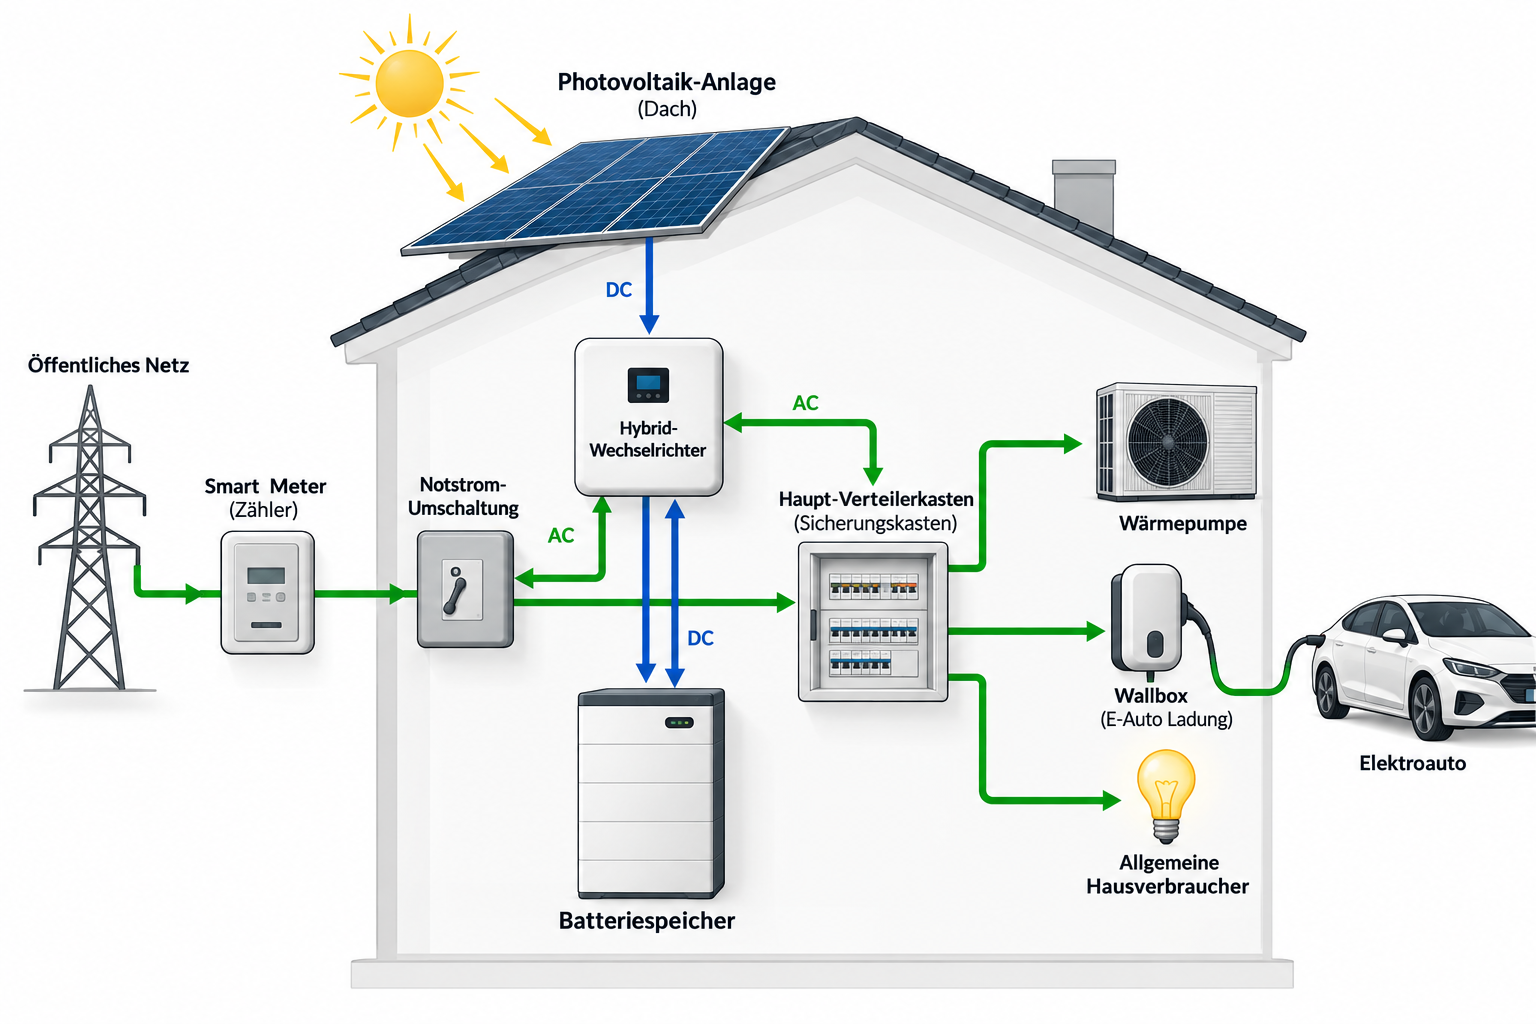
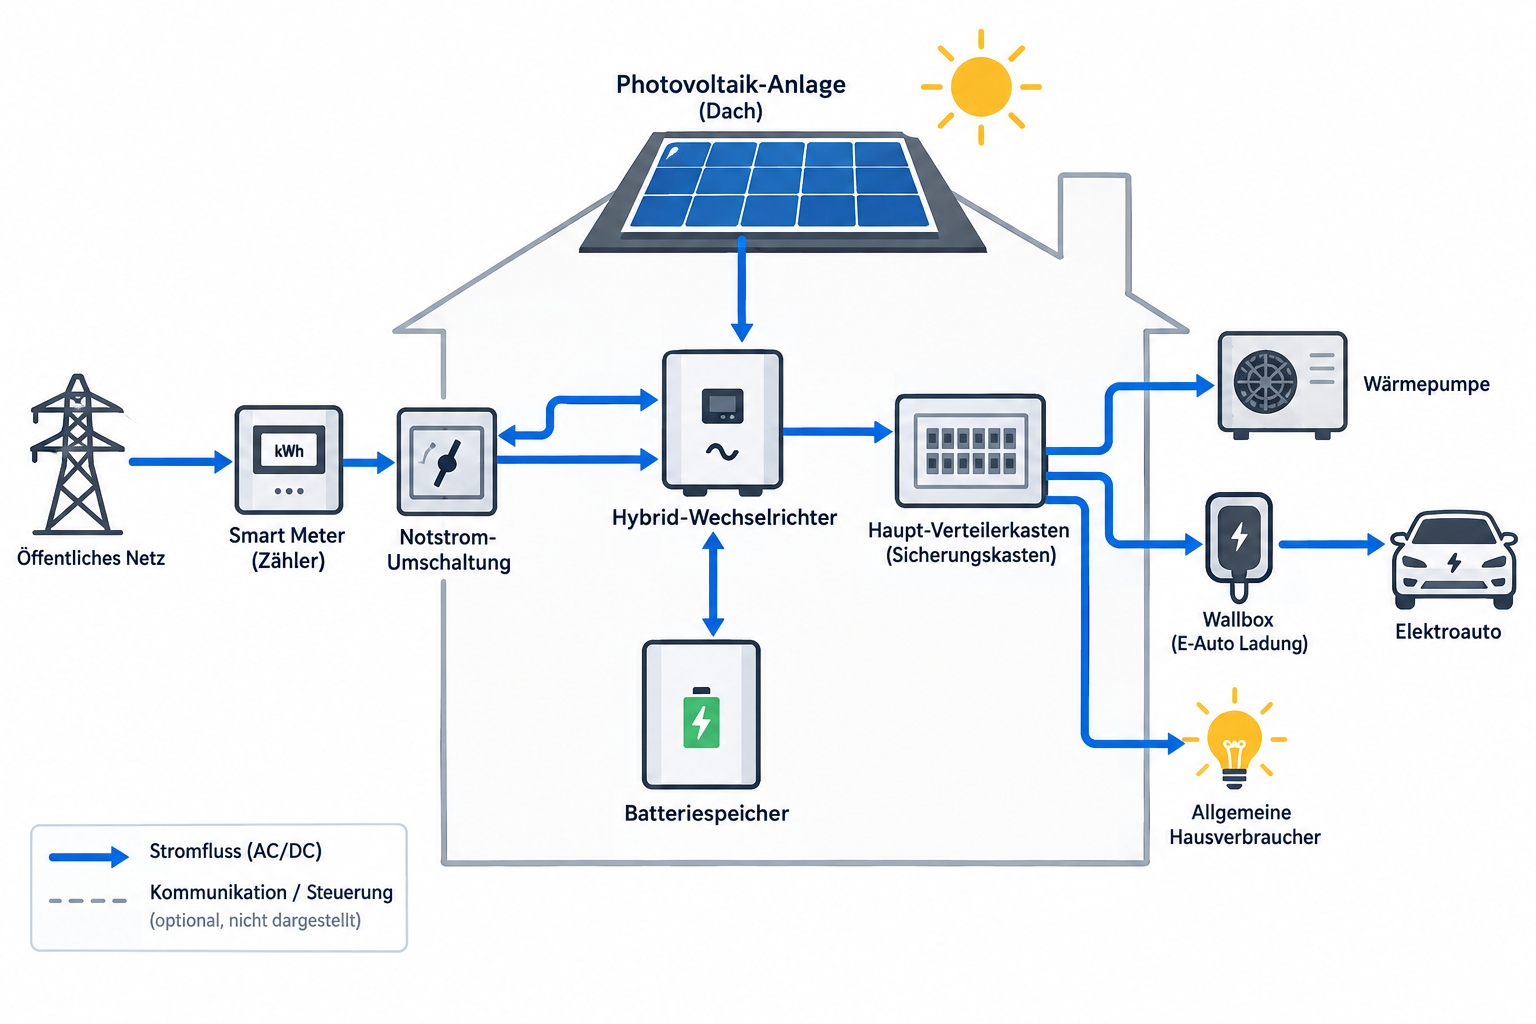
feat(offer): new house diagram art with pale B&W for missing products
Swap in the customer system graphic. Always keep Netz, utility Smart
Meter, Verteiler and Allgemeine Hausverbraucher in color; mute absent
sellable parts (Notstrom, WP, Wallbox, EV, …) to pale black-and-white.

Changed region(s): [[0.0, 0.0312, 1.0, 0.9688]]

diff --git a/src/offer/house-diagram.js b/src/offer/house-diagram.js
@@ -2,12 +2,14 @@
 
 /**
  * House system diagram for „Auf einen Blick“.
- * Base art: house-system-diagram.png (Useini-style reference).
+ * Base art: house-system-diagram.png (customer-supplied reference).
  *
- * Always full color (Noortec does not sell these / always present):
+ * Always full color (never B&W) — Noortec does not sell / always present:
  *   Öffentliches Netz, utility Smart Meter (Zähler), Haupt-Verteilerkasten,
  *   Allgemeine Hausverbraucher, house shell.
- * Offer products: color if in this quote, else grey.
+ *
+ * Sellable products: full color if in this offer; otherwise pale black-and-white
+ * so it is obvious they are not part of the quote.
  */
 
 const fs = require('fs');
@@ -17,28 +19,27 @@ const { PNG } = require('pngjs');
 const BASE = path.join(__dirname, 'assets', 'products', 'house-system-diagram.png');
 
 /**
- * Normalized regions [x0,y0,x1,y1] on the 1536×1024 reference.
- * Include nearby labels / local arrows so greying reads clearly.
+ * Normalized regions [x0,y0,x1,y1] on the 1536×1024 reference graphic.
+ * Boxes include nearby labels / local feed arrows.
  */
 const REGIONS = {
-  // Always-on context — never greyed (utility Smart Meter ≠ SigenStor product)
-  netz: [0.00, 0.28, 0.13, 0.72],
-  smartMeter: [0.11, 0.36, 0.29, 0.70],
-  verteiler: [0.52, 0.36, 0.68, 0.64],
-  hausverbraucher: [0.78, 0.72, 0.99, 0.99],
+  // Always-on context — never muted
+  netz: [0.01, 0.20, 0.14, 0.56],
+  smartMeter: [0.13, 0.26, 0.27, 0.56], // utility/grid Zähler (≠ SigenStor product)
+  verteiler: [0.52, 0.28, 0.69, 0.60],
+  hausverbraucher: [0.60, 0.66, 0.88, 0.96],
 
   // Offer-dependent sellable products
-  notstrom: [0.26, 0.32, 0.43, 0.64],
-  inverter: [0.37, 0.20, 0.56, 0.50],
-  battery: [0.35, 0.48, 0.56, 0.80],
-  pv: [0.40, 0.00, 0.74, 0.30],
-  // Include AC feed arrows from Verteiler so unused loads grey with their products
-  waermepumpe: [0.62, 0.14, 0.94, 0.50],
-  wallbox: [0.62, 0.44, 0.88, 0.76],
-  ev: [0.78, 0.38, 0.99, 0.82],
+  notstrom: [0.24, 0.18, 0.40, 0.54],
+  pv: [0.30, 0.00, 0.64, 0.30],
+  inverter: [0.35, 0.26, 0.54, 0.54],
+  battery: [0.34, 0.48, 0.56, 0.80],
+  waermepumpe: [0.68, 0.08, 0.94, 0.44],
+  wallbox: [0.66, 0.40, 0.86, 0.70],
+  ev: [0.80, 0.36, 0.99, 0.74],
 };
 
-/** Sellable product keys that may be greyed when not in the offer. */
+/** Sellable product keys muted when not in the offer. */
 const PRODUCT_KEYS = [
   'pv',
   'inverter',
@@ -74,7 +75,6 @@ function includedOptionKeys(offer) {
   if (Array.isArray(cfg.inkludierteOptionen)) {
     cfg.inkludierteOptionen.forEach((k) => keys.add(String(k).toLowerCase()));
   }
-  // optionen with mode=fix may only appear in preis.inkludiert after computeOffer
   if (Array.isArray(cfg.optionen)) {
     for (const o of cfg.optionen) {
       if (o && o.mode === 'fix' && o.key) keys.add(String(o.key).toLowerCase());
@@ -89,7 +89,7 @@ function namesMatch(names, re) {
 
 /**
  * Resolve which diagram parts are in color for this offer.
- * @returns {{ flags: Record<string, boolean>, greyKeys: string[] }}
+ * @returns {{ flags: Record<string, boolean>, greyKeys: string[], alwaysColor: string[] }}
  */
 function resolveHouseDiagramSelection(offer) {
   const cfg = (offer && offer.config) || {};
@@ -110,7 +110,6 @@ function resolveHouseDiagramSelection(offer) {
     || !!(cfg.inverter)
     || namesMatch(names, /wechselrichter|hybrid|inverter|gen24|sigenstor ec|sun2000/);
 
-  // Notstrom / Gateway / Umschaltbox — sellable product (not the utility meter)
   const hasNotstrom = inkl.has('notstrom')
     || namesMatch(names, /notstrom|umschalt|gateway|netztren|backup.?box/);
 
@@ -122,16 +121,13 @@ function resolveHouseDiagramSelection(offer) {
     || !!(cfg.klima && (cfg.klima.enabled || cfg.klima.packageId
       || (Array.isArray(cfg.klima) && cfg.klima.length)));
 
-  // EV visual follows Wallbox (no separate offer line)
   const hasEv = hasWallbox;
 
   const flags = {
-    // Always color — not sellable / always present
     netz: true,
-    smartMeter: true, // utility/grid Zähler — unrelated to SigenStor Smart Meter line item
+    smartMeter: true, // utility Zähler — never tied to SigenStor Smart Meter line
     verteiler: true,
-    hausverbraucher: true,
-    // Offer products
+    hausverbraucher: true, // Allgemeine Hausverbraucher — always color
     pv: !!hasPv,
     inverter: !!hasInverter,
     battery: !!hasBattery,
@@ -146,20 +142,15 @@ function resolveHouseDiagramSelection(offer) {
 }
 
 /**
- * Strong mute: full desaturate + wash toward slate grey so even light/white
- * product icons (and already-grey hardware) clearly read as „not in offer“.
+ * True pale black-and-white: full desaturate + lighten so missing products
+ * read as obviously „not in this offer“.
  */
 function mutePixel(r, g, b) {
   const gray = 0.299 * r + 0.587 * g + 0.114 * b;
-  // Pull toward #9a9a9a — inactive but still readable
-  const target = 154;
-  const t = 0.78;
-  const muted = gray * (1 - 0.35) + target * 0.35;
-  return {
-    r: Math.round(r * (1 - t) + muted * t),
-    g: Math.round(g * (1 - t) + muted * t),
-    b: Math.round(b * (1 - t) + muted * t),
-  };
+  // Blend grayscale toward light grey (~#d0d0d0) — blass / schwarz-weiß
+  const pale = Math.min(235, gray * 0.35 + 210 * 0.65);
+  const v = Math.round(pale);
+  return { r: v, g: v, b: v };
 }
 
 function applyGreyRegions(png, greyKeys) {
@@ -178,7 +169,7 @@ function applyGreyRegions(png, greyKeys) {
         const r = png.data[i];
         const g = png.data[i + 1];
         const b = png.data[i + 2];
-        // Keep pure page white; mute everything else in the box (incl. labels)
+        // Keep pure page white clean
         if (r >= 252 && g >= 252 && b >= 252) continue;
         const { r: nr, g: ng, b: nb } = mutePixel(r, g, b);
         png.data[i] = nr;
@@ -189,10 +180,6 @@ function applyGreyRegions(png, greyKeys) {
   }
 }
 
-/**
- * Render diagram PNG buffer for this offer (full color + greyed inactive parts).
- * Falls back to raw base file bytes if pngjs fails.
- */
 function renderHouseDiagramPng(offer) {
   if (!fs.existsSync(BASE)) return null;
   const { greyKeys } = resolveHouseDiagramSelection(offer);
@@ -208,7 +195,6 @@ function renderHouseDiagramPng(offer) {
   }
 }
 
-/** Write rendered diagram to a temp path for pdfkit (returns path or null). */
 function writeHouseDiagramTemp(offer, tmpDir = null) {
   const buf = renderHouseDiagramPng(offer);
   if (!buf) return null;
